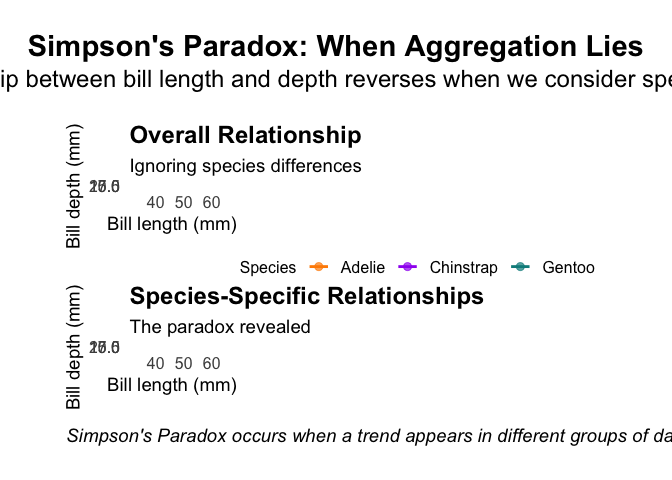
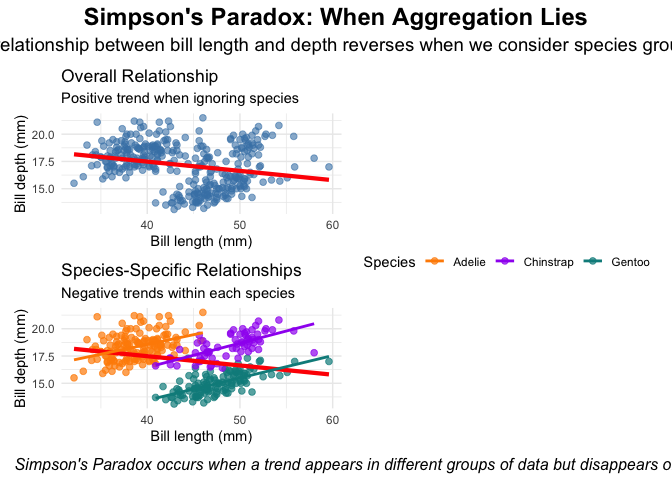
Complete Simpson's Paradox side-by-side comparision

Changed region(s): [[0.0, 0.0, 1.0, 1.0], [0.4688, 0.4375, 0.5, 0.4688]]

diff --git a/README.md b/README.md
@@ -112,87 +112,68 @@ relationship when we aggregate the data.
 ### C. Side-by-Side Comparison
 
 ``` r
-# Create improved versions of the plots for better side-by-side comparison
-# Plot 1: Overall relationship (cleaner version)
-plot1_clean <- ggplot(data = penguins,
+# Create a simple, clean side-by-side comparison
+# Plot 1: Overall relationship
+plot1_simple <- ggplot(data = penguins,
         aes(x = bill_length_mm,
         y = bill_depth_mm)) +
-  theme_minimal(16) +
-  geom_point(alpha = 0.6, color = "steelblue", size = 2.5) +
+  theme_minimal() +
+  geom_point(alpha = 0.6, color = "steelblue", size = 2) +
   labs(title = "Overall Relationship",
-       subtitle = "Ignoring species differences",
+       subtitle = "Positive trend when ignoring species",
        x = "Bill length (mm)",
        y = "Bill depth (mm)") +
-  theme(plot.title = element_text(size = 18, face = "bold"),
-        plot.subtitle = element_text(size = 14),
-        axis.title = element_text(size = 14),
-        axis.text = element_text(size = 12),
-        plot.margin = unit(c(20, 20, 20, 20), "pt")) +
-  geom_smooth(method = "lm", se = FALSE, color = "red", linewidth = 1.5) +
-  annotate("text", x = 55, y = 22, label = "Positive trend", 
-           color = "red", fontface = "bold", size = 5)
+  geom_smooth(method = "lm", se = FALSE, color = "red", linewidth = 1.5)
 
-# Plot 2: Species-specific relationships (cleaner version)
-plot2_clean <- ggplot(data = penguins,
+# Plot 2: Species-specific relationships
+plot2_simple <- ggplot(data = penguins,
        aes(x = bill_length_mm,
            y = bill_depth_mm,
            color = species)) +
-  theme_minimal(16) +
-  geom_point(alpha = 0.7, size = 2.5) +
+  theme_minimal() +
+  geom_point(alpha = 0.7, size = 2) +
   scale_color_manual(values = c("darkorange","purple","cyan4"),
                      name = "Species") +
   labs(title = "Species-Specific Relationships",
-       subtitle = "The paradox revealed",
+       subtitle = "Negative trends within each species",
        x = "Bill length (mm)",
        y = "Bill depth (mm)") +
-  theme(plot.title = element_text(size = 18, face = "bold"),
-        plot.subtitle = element_text(size = 14),
-        axis.title = element_text(size = 14),
-        axis.text = element_text(size = 12),
-        legend.position = "bottom",
-        legend.text = element_text(size = 12),
-        legend.title = element_text(size = 12),
-        plot.margin = unit(c(20, 20, 20, 20), "pt")) +
+  theme(legend.position = "bottom") +
   # Overall trend (ignoring species)
   geom_smooth(method = "lm", se = FALSE, color = "red", 
               linewidth = 1.5, alpha = 0.8) +
   # Species-specific trends
-  geom_smooth(method = "lm", se = FALSE, linewidth = 1) +
-  annotate("text", x = 55, y = 22, label = "Overall: Positive", 
-           color = "red", fontface = "bold", size = 4.5) +
-  annotate("text", x = 55, y = 20, label = "Within species: Negative", 
-           color = "darkblue", fontface = "bold", size = 4.5)
+  geom_smooth(method = "lm", se = FALSE, linewidth = 1)
 
-# Create the side-by-side comparison using patchwork with more space
-side_by_side_plot <- plot1_clean / plot2_clean +
-  plot_layout(guides = "collect", heights = c(1, 1.2)) +
+# Create the comparison using patchwork
+comparison_plot <- plot1_simple / plot2_simple +
+  plot_layout(guides = "collect") +
   plot_annotation(
     title = "Simpson's Paradox: When Aggregation Lies",
     subtitle = "The relationship between bill length and depth reverses when we consider species grouping",
-    caption = "Simpson's Paradox occurs when a trend appears in different groups of data but disappears or reverses when these groups are combined. Here, the overall positive relationship (top) masks the negative relationships within each species (bottom). This demonstrates why we must always examine data at multiple levels of aggregation.",
+    caption = "Simpson's Paradox occurs when a trend appears in different groups of data but disappears or reverses when these groups are combined. Here, the overall positive relationship (top) masks the negative relationships within each species (bottom).",
     theme = theme(
-      plot.title = element_text(size = 22, face = "bold", hjust = 0.5),
-      plot.subtitle = element_text(size = 18, hjust = 0.5),
-      plot.caption = element_text(size = 14, hjust = 0, face = "italic", lineheight = 1.5),
-      plot.margin = unit(c(30, 30, 30, 30), "pt")
+      plot.title = element_text(size = 18, face = "bold", hjust = 0.5),
+      plot.subtitle = element_text(size = 14, hjust = 0.5),
+      plot.caption = element_text(size = 12, hjust = 0, face = "italic")
     )
   )
 
-side_by_side_plot
+comparison_plot
 ```
 
-![Simpson’s Paradox: The same data tells two different stories. Left:
-Overall relationship shows a positive trend. Right: When grouped by
+![Simpson’s Paradox: The same data tells two different stories. Top:
+Overall relationship shows a positive trend. Bottom: When grouped by
 species, the relationship reverses to negative within each
 group.](README_files/figure-commonmark/unnamed-chunk-3-1.png)
 
 **The Power of Side-by-Side Visualization!** 🎯
 
-This comparison makes Simpson’s Paradox crystal clear: - **Left plot:**
+This comparison makes Simpson’s Paradox crystal clear: - **Top plot:**
 Shows the overall positive relationship between bill length and depth -
-**Right plot:** Reveals the negative relationships within each species -
-**The paradox:** The same data tells two completely different stories
-depending on whether we consider the species grouping variable
+**Bottom plot:** Reveals the negative relationships within each
+species - **The paradox:** The same data tells two completely different
+stories depending on whether we consider the species grouping variable
 
 ## Key Takeaways: Lessons from Simpson’s Paradox
 
